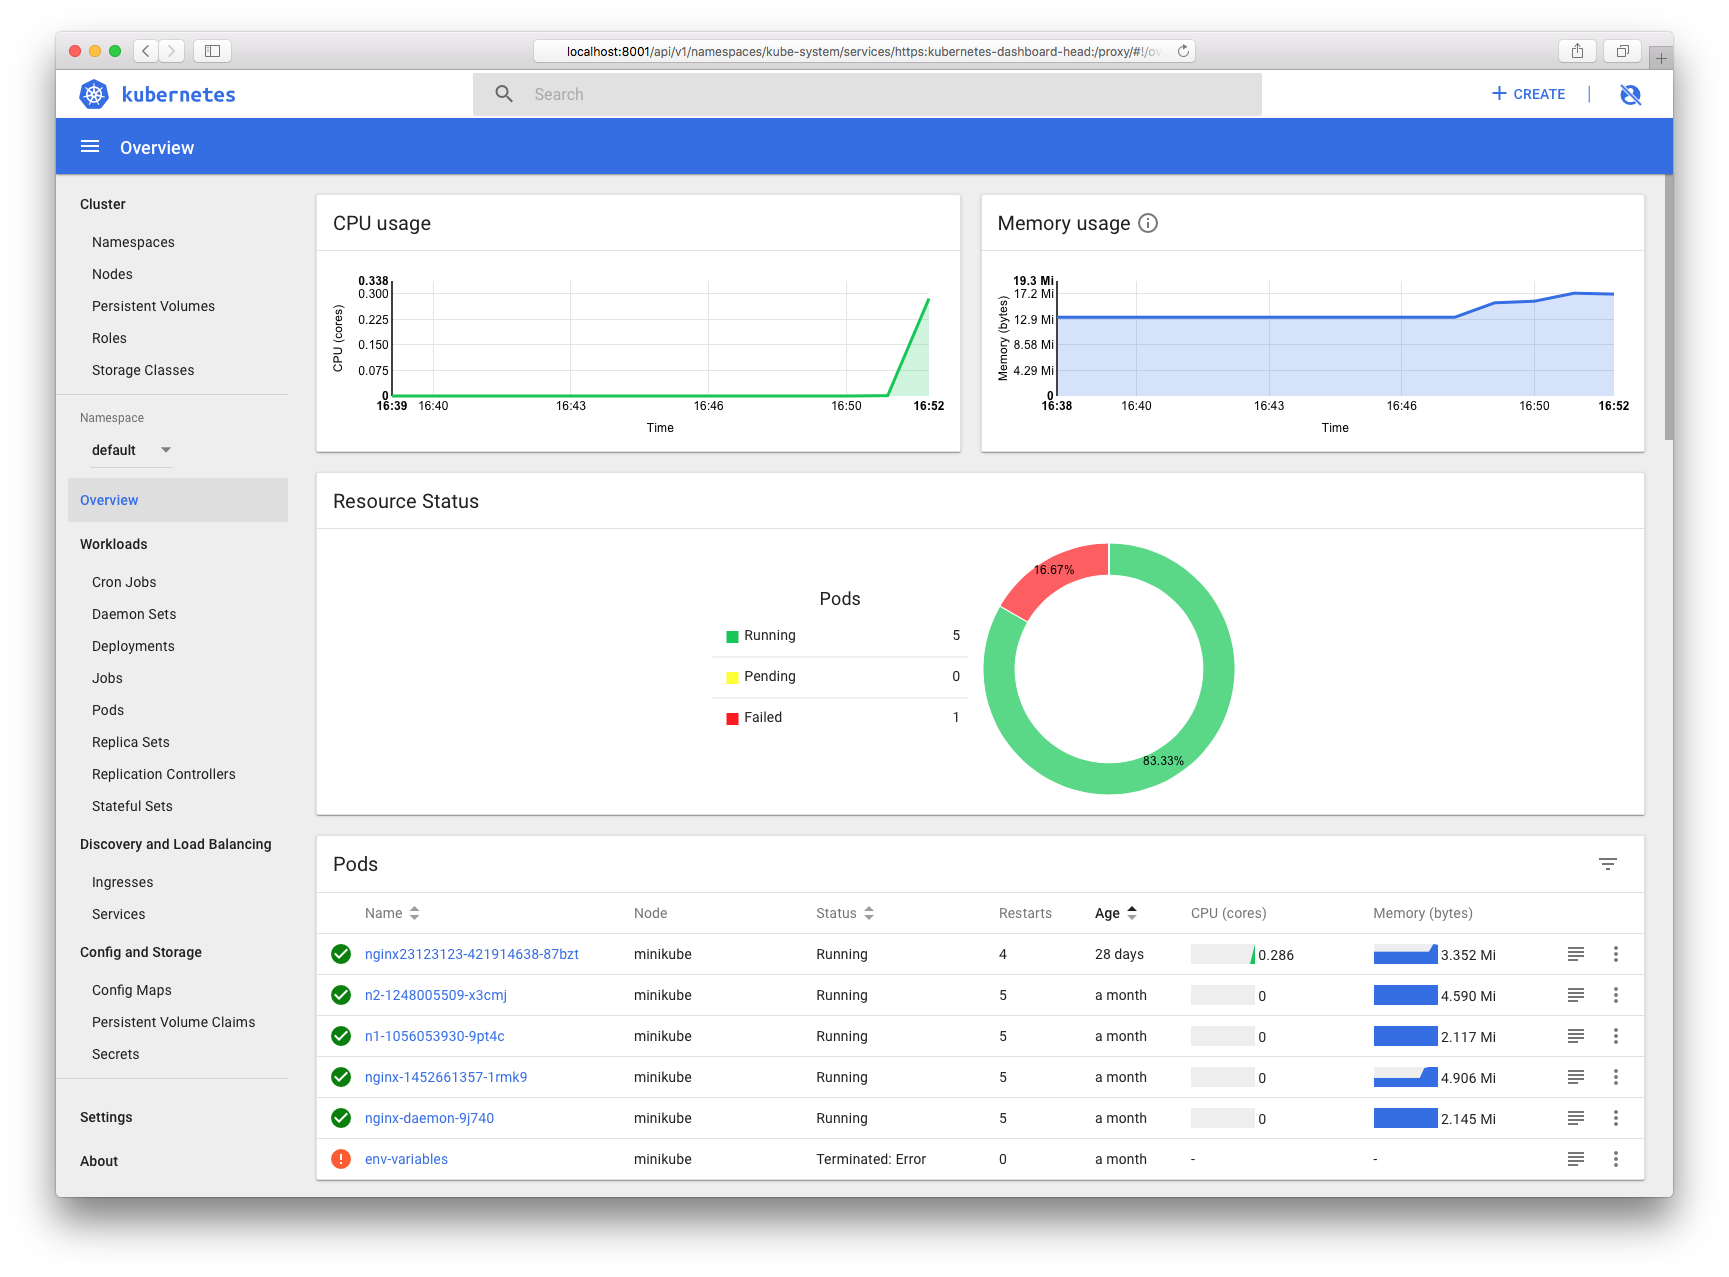
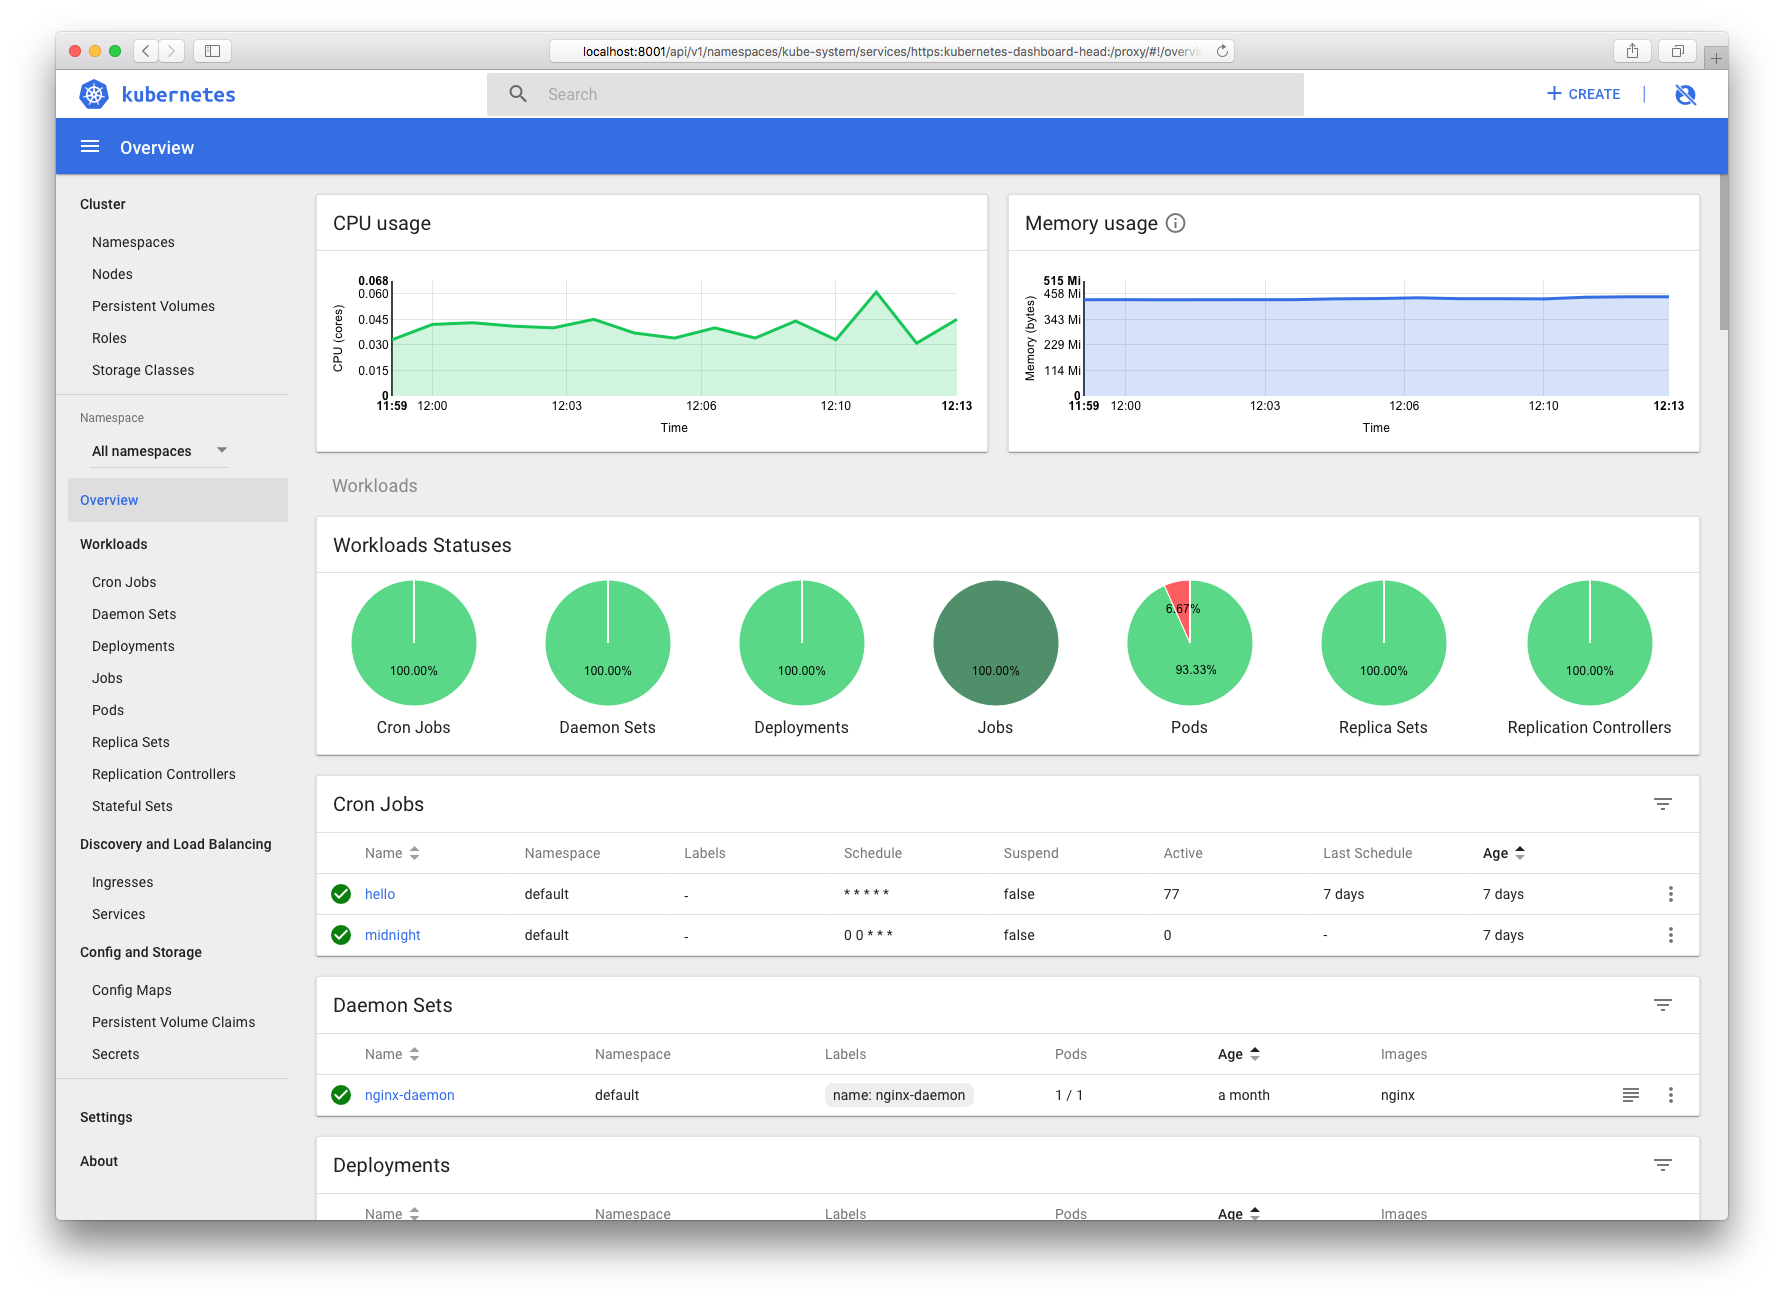
Release v1.8.0 (#2516)
* Update API versions in YAML files

* Use apps/v1beta2 instead of apps/v1beta1

* Update version to 1.8.0

* Replace init container with --auto-generate-certificates flag
Remove watch access rule

* Update comments in YAML files

* Update landing page screenshot

* Update landing page screenshot

* Update kubernetes-dashboard-head.yaml

diff --git a/build/conf.js b/build/conf.js
@@ -59,7 +59,7 @@ const version = {
   /**
    * Current release version of the project.
    */
-  release: 'v1.7.1',
+  release: 'v1.8.0',
   /**
    * Version name of the head release of the project.
    */
